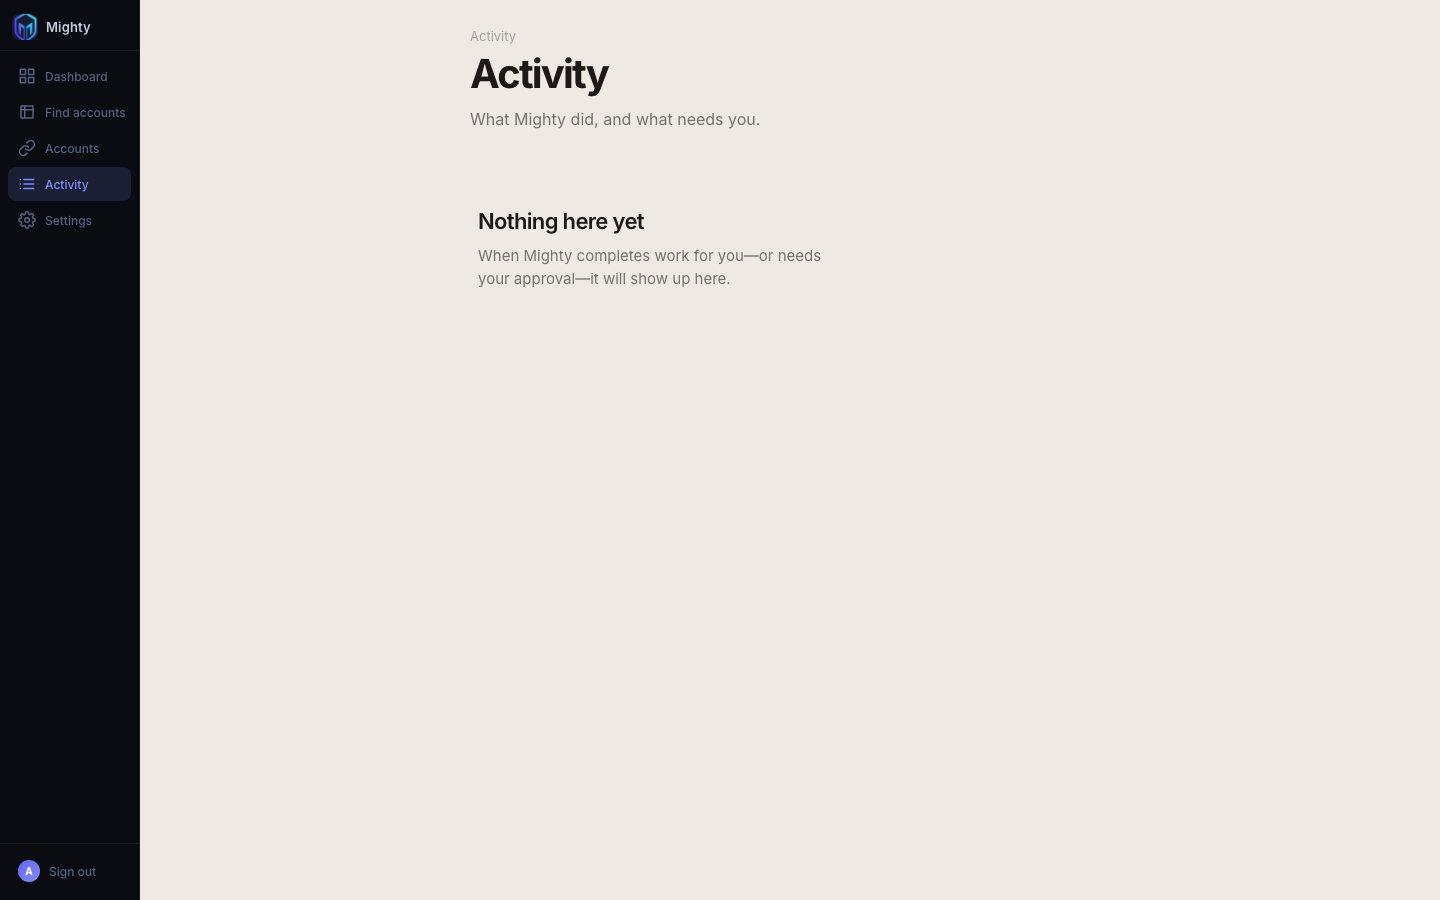
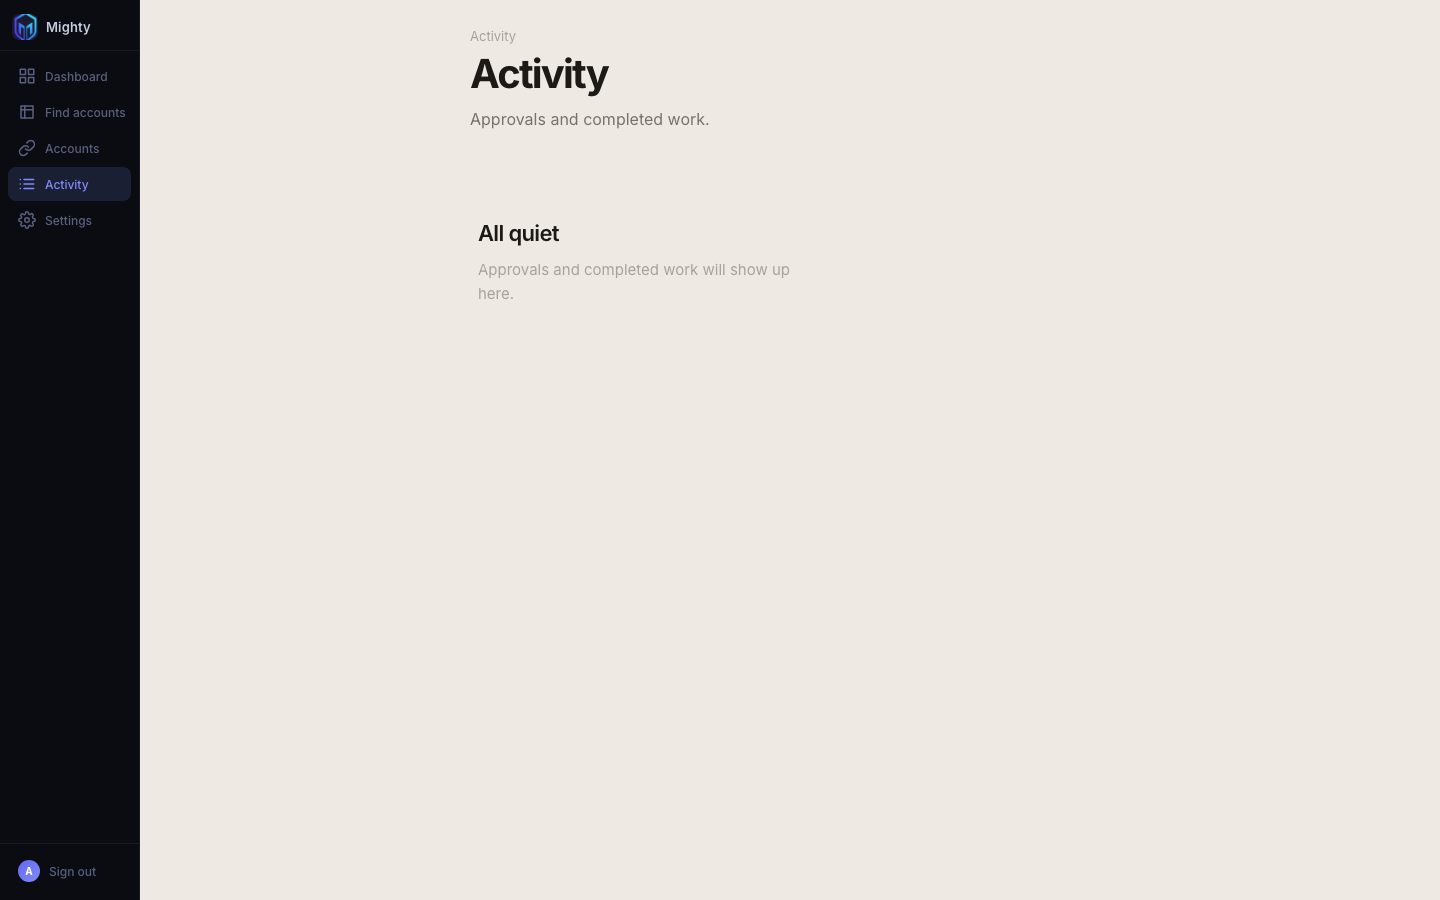
polish(activity): refine Activity V1 copy and visual hierarchy

Changed region(s): [[0.3125, 0.2178, 0.5625, 0.3422], [0.3125, 0.1244, 0.5312, 0.1556]]

diff --git a/mighty/activity_ui.py b/mighty/activity_ui.py
@@ -15,32 +15,36 @@ from mighty.activity_projection import (
 ACTIVITY_CSS = """
 .activity-page{flex:1;overflow-y:auto;padding:28px 32px 64px;background:#eee9e2}
 .activity-shell{max-width:640px;margin:0 auto}
-.activity-header{margin:0 0 28px}
+.activity-header{margin:0 0 32px}
 .activity-kicker{margin:0;font-size:13px;font-weight:400;color:#a8a29e;letter-spacing:0}
 .activity-title{margin:8px 0 0;font-size:40px;font-weight:650;color:#1c1917;letter-spacing:-0.045em;line-height:1.12}
-.activity-subtitle{margin:10px 0 0;font-size:16px;color:#78716c;line-height:1.55;max-width:36ch}
-.activity-day{margin:0 0 28px}
-.activity-day-label{margin:0 0 12px;font-size:11px;font-weight:600;color:#d6d3d1;text-transform:uppercase;letter-spacing:0.07em}
-.activity-list{list-style:none;margin:0;padding:0;display:flex;flex-direction:column;gap:10px}
-.activity-item{background:#fff;border:0.5px solid rgba(0,0,0,0.07);border-radius:12px;padding:16px 18px;box-shadow:0 1px 1px rgba(0,0,0,0.02)}
-.activity-item[data-category="needs_approval"]{border-color:rgba(28,25,23,0.14);background:linear-gradient(180deg,#fffdf8 0%,#fff 55%)}
+.activity-subtitle{margin:10px 0 0;font-size:16px;color:#78716c;line-height:1.55;max-width:34ch}
+.activity-day{margin:0 0 32px}
+.activity-day-label{margin:0 0 14px;font-size:11px;font-weight:600;color:#d6d3d1;text-transform:uppercase;letter-spacing:0.07em}
+.activity-list{list-style:none;margin:0;padding:0;display:flex;flex-direction:column;gap:16px}
+.activity-item{background:#fff;border:0.5px solid rgba(0,0,0,0.07);border-radius:12px;padding:18px 18px;box-shadow:0 1px 1px rgba(0,0,0,0.02)}
+.activity-item[data-category="needs_approval"]{border-color:rgba(180,83,9,0.28);border-left:3px solid #b45309;background:linear-gradient(180deg,#fffbeb 0%,#ffffff 62%);box-shadow:0 1px 2px rgba(28,25,23,0.04)}
+.activity-item[data-category="needs_approval"] .activity-item-title{font-weight:600;color:#1c1917}
+.activity-item[data-category="completed"],
+.activity-item[data-category="in_progress"],
+.activity-item[data-category="could_not_complete"]{border-color:rgba(0,0,0,0.06)}
 .activity-item-top{display:flex;align-items:flex-start;justify-content:space-between;gap:12px}
 .activity-item-title{margin:0;font-size:16px;font-weight:550;color:#1c1917;letter-spacing:-0.02em;line-height:1.35}
 .activity-item-meta{margin:6px 0 0;font-size:13px;color:#a8a29e;line-height:1.4}
 .activity-item-meta span+span::before{content:"·";margin:0 7px;color:#d6d3d1}
 .activity-status{flex-shrink:0;font-size:11px;font-weight:600;color:#78716c;background:#f5f5f4;border-radius:999px;padding:4px 10px;white-space:nowrap}
-.activity-status[data-category="needs_approval"]{color:#92400e;background:#fff7ed}
-.activity-status[data-category="completed"]{color:#166534;background:#f0fdf4}
-.activity-status[data-category="could_not_complete"]{color:#57534e;background:#f5f5f4}
-.activity-status[data-category="in_progress"]{color:#1d4ed8;background:#eff6ff}
+.activity-status[data-category="needs_approval"]{color:#9a3412;background:#ffedd5}
+.activity-status[data-category="completed"]{color:#57534e;background:#f5f5f4}
+.activity-status[data-category="could_not_complete"]{color:#78716c;background:#f5f5f4}
+.activity-status[data-category="in_progress"]{color:#57534e;background:#f5f5f4}
 .activity-item-body{margin:10px 0 0;font-size:15px;color:#78716c;line-height:1.55;max-width:42ch}
-.activity-actions{display:flex;flex-wrap:wrap;align-items:center;gap:10px;margin-top:14px}
+.activity-actions{display:flex;flex-wrap:wrap;align-items:center;gap:10px;margin-top:16px}
 .activity-btn{appearance:none;border:none;border-radius:10px;padding:10px 16px;font-size:13px;font-weight:600;font-family:inherit;cursor:pointer}
-.activity-btn-approve{background:#1c1917;color:#fff}
+.activity-btn-approve{background:#1c1917;color:#fff;padding:12px 22px;font-size:14px;font-weight:650;box-shadow:0 1px 2px rgba(28,25,23,0.2)}
 .activity-btn-approve:hover{background:#292524}
 .activity-btn-deny{background:#fff;color:#57534e;border:0.5px solid rgba(0,0,0,0.12)}
 .activity-btn-deny:hover{background:#fafaf9}
-.activity-details{margin-top:12px;border-top:0.5px solid rgba(0,0,0,0.05);padding-top:10px}
+.activity-details{margin-top:14px;border-top:0.5px solid rgba(0,0,0,0.05);padding-top:10px}
 .activity-details summary{cursor:pointer;font-size:13px;font-weight:500;color:#a8a29e;list-style:none}
 .activity-details summary::-webkit-details-marker{display:none}
 .activity-details summary:hover{color:#78716c}
@@ -51,9 +55,9 @@ ACTIVITY_CSS = """
 .activity-detail-val{color:#44403c}
 .activity-attempt{margin-top:8px;padding:10px 12px;background:#fafaf9;border-radius:8px}
 .activity-attempt-title{margin:0 0 4px;font-size:12px;font-weight:600;color:#78716c}
-.activity-empty{padding:48px 8px 24px;max-width:36ch}
+.activity-empty{padding:56px 8px 28px;max-width:34ch}
 .activity-empty-title{margin:0;font-size:22px;font-weight:600;color:#1c1917;letter-spacing:-0.03em}
-.activity-empty-body{margin:10px 0 0;font-size:15px;color:#78716c;line-height:1.55}
+.activity-empty-body{margin:12px 0 0;font-size:15px;color:#a8a29e;line-height:1.6}
 .activity-error{margin:0 0 18px;padding:12px 14px;border-radius:10px;background:#fff7ed;color:#9a3412;font-size:13px}
 .activity-load-more{margin:8px 0 0;display:flex;justify-content:center}
 .activity-load-more button{appearance:none;border:0.5px solid rgba(0,0,0,0.12);background:#fff;border-radius:10px;padding:10px 16px;font-size:13px;font-weight:600;color:#57534e;cursor:pointer;font-family:inherit}
@@ -82,10 +86,9 @@ def render_activity_main(
     if not projection.items and not projection.next_cursor:
         body = (
             f'<div class="activity-empty">'
-            f'<h2 class="activity-empty-title">Nothing here yet</h2>'
+            f'<h2 class="activity-empty-title">All quiet</h2>'
             f'<p class="activity-empty-body">'
-            f"When Mighty completes work for you—or needs your approval—"
-            f"it will show up here."
+            f"Approvals and completed work will show up here."
             f"</p></div>"
         )
     else:
@@ -106,7 +109,7 @@ def render_activity_main(
         f'<header class="activity-header">'
         f'<p class="activity-kicker">Activity</p>'
         f'<h1 class="activity-title">Activity</h1>'
-        f'<p class="activity-subtitle">What Mighty did, and what needs you.</p>'
+        f'<p class="activity-subtitle">Approvals and completed work.</p>'
         f'</header>'
         f'<div id="activity-timeline" data-csrf="{escape(csrf_token)}">'
         f"{body}"
@@ -213,7 +216,7 @@ def _render_details(item: ActivityItem, *, escape: Callable[[Any], str]) -> str:
 
     return (
         f'<details class="activity-details">'
-        f"<summary>Details</summary>"
+        f"<summary>What happened</summary>"
         f'<div class="activity-detail-grid">{"".join(rows)}{attempts}</div>'
         f"</details>"
     )

diff --git a/mighty/activity_projection.py b/mighty/activity_projection.py
@@ -341,15 +341,24 @@ def _explanation(
 ) -> str:
     lifecycle = _lifecycle(action)
     if category == CATEGORY_NEEDS_APPROVAL:
-        return "Waiting for your approval before Mighty continues."
+        return "Needs your approval to continue."
     if category == CATEGORY_IN_PROGRESS:
         if lifecycle == STATE_EXECUTING:
-            return "Mighty is working on this now."
-        return "Approved — Mighty is ready to continue."
+            return "In progress now."
+        return "Approved and ready to continue."
     if category == CATEGORY_COMPLETED:
-        if action.outcome and str(action.outcome).lower() not in {"completed", "ok", "success"}:
-            return f"Finished. { _soften_outcome(action.outcome) }"
-        return "Finished successfully."
+        phrase = _customer_phrase(action.outcome)
+        if phrase and str(action.outcome or "").strip().lower() not in {
+            "completed",
+            "ok",
+            "success",
+            "failed",
+        }:
+            return _ensure_sentence(phrase)
+        label = str(action.label or "").strip()
+        if label:
+            return _ensure_sentence(f"{label} is complete")
+        return "This is complete."
     # could_not_complete — precise, no false system-failure implication.
     # Prefer canonical lifecycle over legacy status (cancelled maps to legacy denied).
     if lifecycle == STATE_DENIED:
@@ -359,13 +368,14 @@ def _explanation(
     if lifecycle == STATE_EXPIRED:
         return "The approval window ended before a decision was made."
     if lifecycle == STATE_FAILED:
-        if action.outcome and str(action.outcome).lower() not in {"failed"}:
-            return f"Mighty couldn’t finish this. {_soften_outcome(action.outcome)}"
+        phrase = _customer_phrase(action.outcome)
+        if phrase and str(action.outcome or "").strip().lower() not in {"failed"}:
+            return _ensure_sentence(f"Couldn’t finish — {phrase}")
         if latest and latest.detail:
-            msg = _readable_detail_message(latest.detail)
+            msg = _customer_phrase(_readable_detail_message(latest.detail) or "")
             if msg:
-                return f"Mighty couldn’t finish this. {msg}"
-        return "Mighty couldn’t finish this."
+                return _ensure_sentence(f"Couldn’t finish — {msg}")
+        return "Couldn’t finish this."
     if action.status == "timeout":
         return "The approval window ended before a decision was made."
     if action.status == "denied":
@@ -389,7 +399,14 @@ def _detail(
                 break
 
     happened = explanation
-    outcome_detail = _clean_text(action.outcome)
+    outcome_detail = _customer_phrase(action.outcome)
+    if outcome_detail and str(action.outcome or "").strip().lower() in {
+        "completed",
+        "ok",
+        "success",
+        "failed",
+    }:
+        outcome_detail = None
     fields = _normalize_fields(action.fields)
     history = tuple(_receipt_summary(r) for r in receipts)
 
@@ -483,7 +500,7 @@ def _stringify_field(value: Any) -> str:
 def _readable_detail_message(detail: Mapping[str, Any]) -> str | None:
     for key in ("message", "error", "summary", "reason"):
         if key in detail and key not in _FORBIDDEN_DETAIL_KEYS:
-            text = _clean_text(detail.get(key))
+            text = _customer_phrase(detail.get(key))
             if text and not _looks_internal(text):
                 return text
     return None
@@ -492,6 +509,10 @@ def _readable_detail_message(detail: Mapping[str, Any]) -> str | None:
 def _looks_internal(text: str) -> bool:
     lower = text.lower()
     if any(tok in lower for tok in ("hash", "fingerprint", "sqlite", "traceback")):
+        return True
+    if "_" in text and text.lower() == text and any(
+        tok in text.lower() for tok in ("provider_", "capability_", "auth_", "exec_")
+    ):
         return True
     if len(text) >= 40 and all(c in "0123456789abcdef" for c in text.lower()):
         return True
@@ -507,11 +528,53 @@ def _clean_text(value: Any) -> str | None:
     return text
 
 
-def _soften_outcome(value: Any) -> str:
-    text = str(value or "").strip()
+_CUSTOMER_OUTCOME_PHRASES = {
+    "provider_unavailable": "The account wasn’t available",
+    "temporary_glitch": "Something went wrong temporarily",
+    "not_authorized": "It wasn’t authorized",
+    "timeout": "It took too long",
+    "timed_out": "It took too long",
+    "network_error": "The connection failed",
+    "rate_limited": "Too many attempts — try again later",
+    "cancelled": "Cancelled",
+    "canceled": "Cancelled",
+    "denied": "Declined",
+    "expired": "Expired",
+}
+
+
+def _customer_phrase(value: Any) -> str | None:
+    """Translate implementation tokens into customer language."""
+    if value is None:
+        return None
+    text = str(value).strip()
     if not text:
+        return None
+    key = text.lower().replace(" ", "_").replace("-", "_")
+    if key in _CUSTOMER_OUTCOME_PHRASES:
+        return _CUSTOMER_OUTCOME_PHRASES[key]
+    if _looks_internal(text):
+        return None
+    if "_" in text:
+        words = " ".join(part for part in text.replace("_", " ").split() if part)
+        if not words:
+            return None
+        return words[0].upper() + words[1:]
+    return text
+
+
+def _soften_outcome(value: Any) -> str:
+    phrase = _customer_phrase(value)
+    return phrase or ""
+
+
+def _ensure_sentence(text: str) -> str:
+    cleaned = str(text or "").strip()
+    if not cleaned:
         return ""
-    return text[0].upper() + text[1:] if len(text) > 1 else text.upper()
+    if cleaned[-1] in ".!?":
+        return cleaned
+    return f"{cleaned}."
 
 
 def _parse_ts(value: str | None) -> datetime:

diff --git a/tests/test_activity_v1.py b/tests/test_activity_v1.py
@@ -144,6 +144,10 @@ def test_category_mapping_and_wording(db):
     assert "cancel" in by_id["a6"].explanation.lower()
     assert by_id["a7"].category == CATEGORY_COULD_NOT_COMPLETE
     assert "couldn’t finish" in by_id["a7"].explanation.lower() or "couldn't finish" in by_id["a7"].explanation.lower()
+    assert "provider_unavailable" not in by_id["a7"].explanation.lower()
+    assert "wasn’t available" in by_id["a7"].explanation.lower() or "wasn't available" in by_id["a7"].explanation.lower()
+    assert "Finished successfully" not in by_id["a3"].explanation
+    assert "complete" in by_id["a3"].explanation.lower()
     assert denied.action_id == "a4"
 
 
@@ -365,7 +369,8 @@ def test_empty_state_ui():
         has_historical=False,
     )
     html = render_activity_main(proj, escape=lambda x: str(x), csrf_token="x")
-    assert "Nothing here yet" in html
+    assert "All quiet" in html
+    assert "Approvals and completed work" in html
 
 
 @pytest.fixture()

diff --git a/scripts/capture_activity_v1_screenshots.py b/scripts/capture_activity_v1_screenshots.py
@@ -279,7 +279,7 @@ Logged-in `/activity` captures at approximately 1440×900 viewport. Review these
 
 | File | State | What it shows |
 |------|--------|----------------|
-| `empty.png` | Empty | Calm empty state when the user has no Activity items. |
+| `empty.png` | Empty | Calm “All quiet” empty state when the user has no Activity items. |
 | `needs-approval.png` | Needs approval | Pending agent action with Approve / Deny controls. |
 | `in-progress.png` | In progress | Authorized / executing work in the timeline. |
 | `completed.png` | Completed | Finished work with readable details / receipt provenance. |

diff --git a/docs/pr-screenshots/activity-v1/README.md b/docs/pr-screenshots/activity-v1/README.md
@@ -4,7 +4,7 @@ Logged-in `/activity` captures at approximately 1440×900 viewport. Review these
 
 | File | State | What it shows |
 |------|--------|----------------|
-| `empty.png` | Empty | Calm empty state when the user has no Activity items. |
+| `empty.png` | Empty | Calm “All quiet” empty state when the user has no Activity items. |
 | `needs-approval.png` | Needs approval | Pending agent action with Approve / Deny controls. |
 | `in-progress.png` | In progress | Authorized / executing work in the timeline. |
 | `completed.png` | Completed | Finished work with readable details / receipt provenance. |
